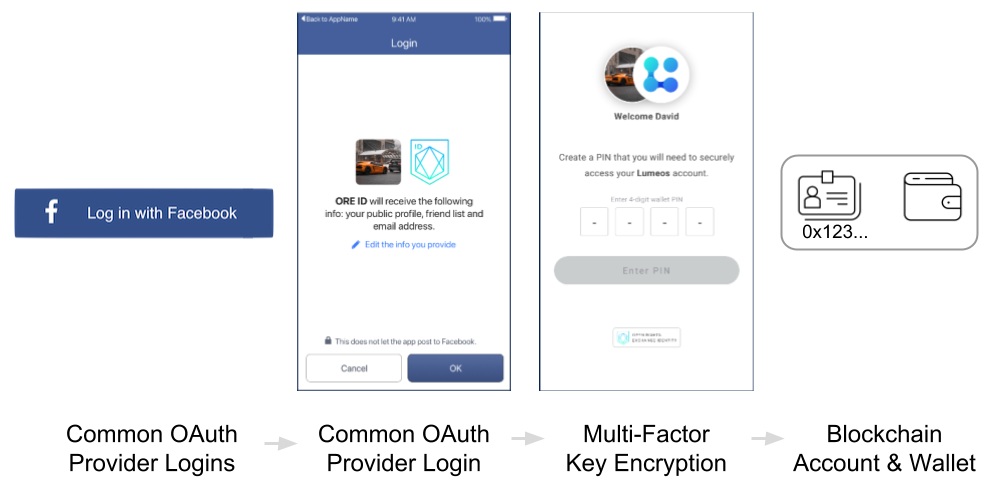
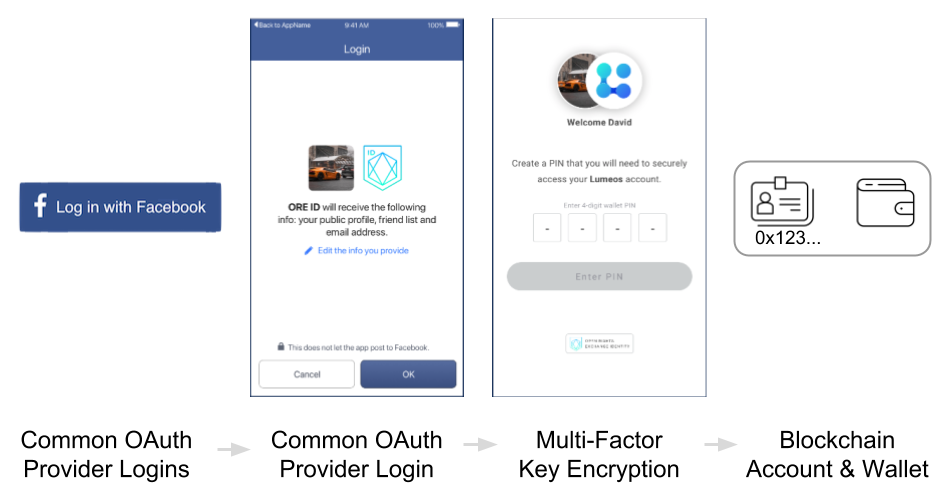
tweak images

diff --git a/README.md b/README.md
@@ -12,7 +12,7 @@ ORE ID also serves as a blockchain wallet for your your users. Your app can requ
 
 ORE ID removes the friction between your app and your future users. 
 
-<img src="./docs/images/oreid-steps-graphic.png" width="1000" >
+<img src="./docs/images/oreid-steps-graphic.png">
 
 # Usage
 
